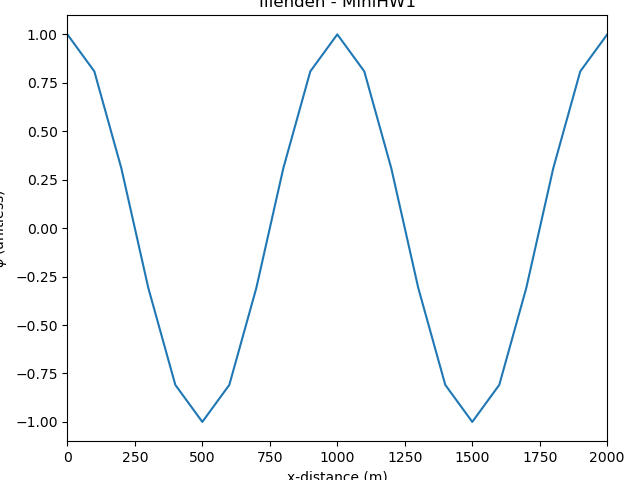
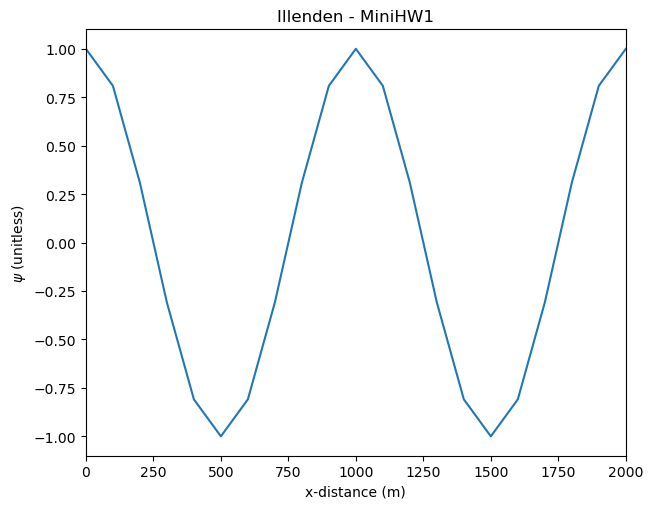
new plot

diff --git a/hw/mini_hw1/miniHW1_plot.py b/hw/mini_hw1/miniHW1_plot.py
@@ -44,5 +44,5 @@ plt.ylabel('$\psi$ (unitless)')
 plt.title(r'Illenden - MiniHW1')
 
 # finish up
-plt.savefig('miniHW1_output_plot.png')
+plt.savefig('miniHW1_output_plot', bbox_inches='tight')
 plt.show()
